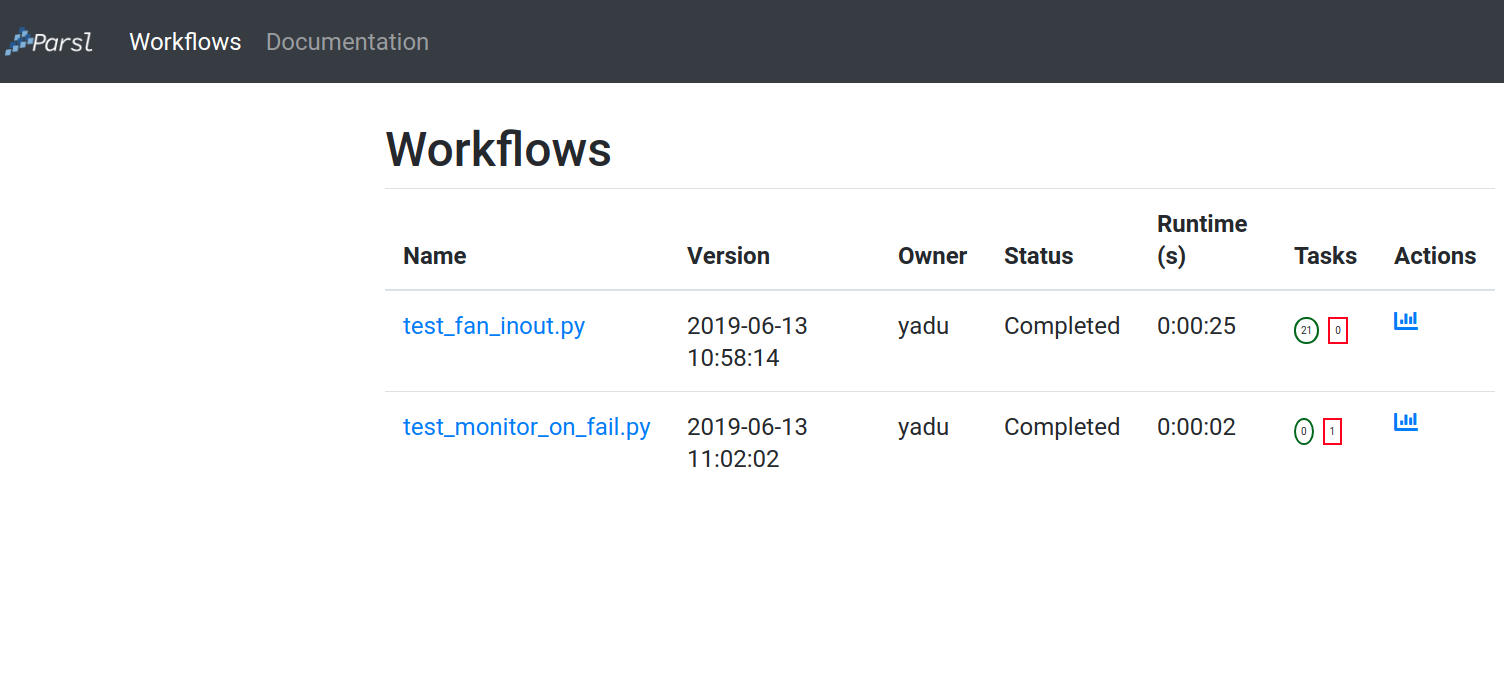
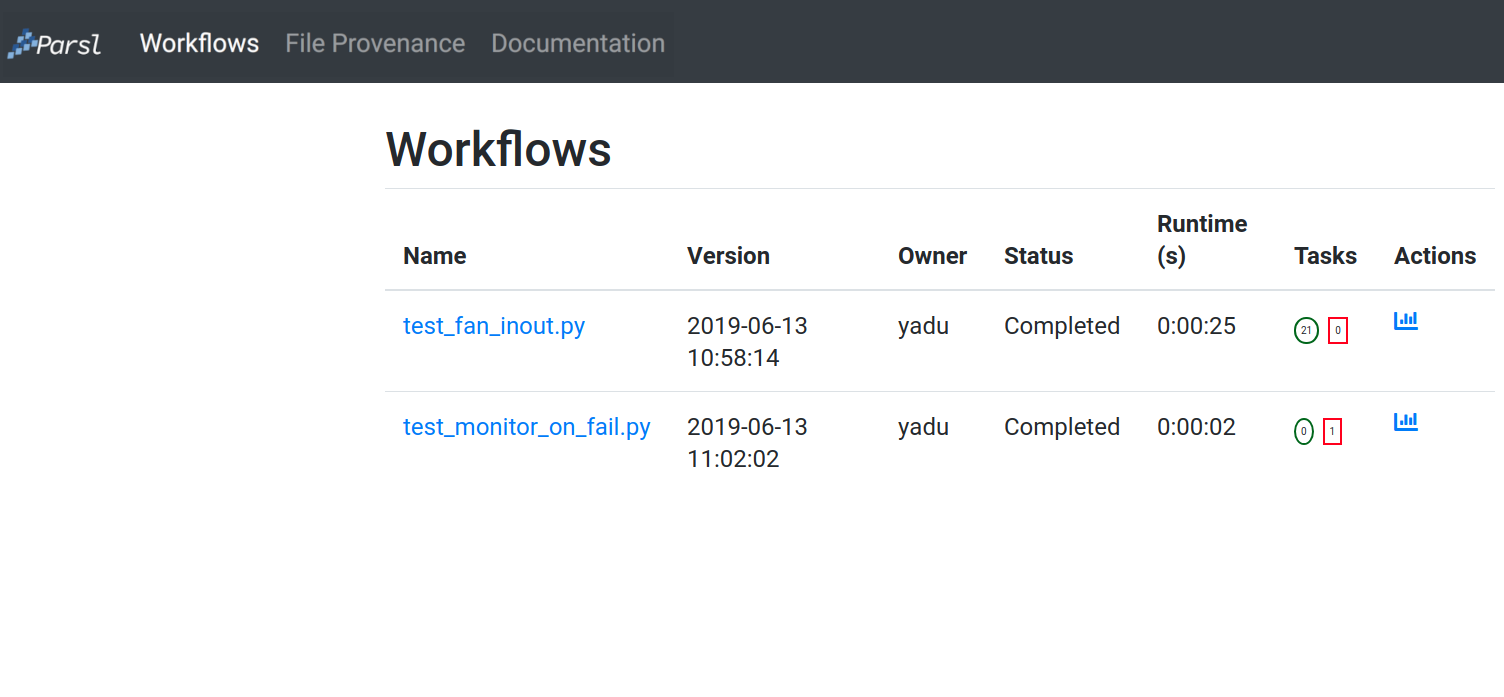
documentation on file provenance

Changed region(s): [[0.0, 0.0301, 0.4375, 0.0904]]

diff --git a/docs/userguide/monitoring.rst b/docs/userguide/monitoring.rst
@@ -15,7 +15,7 @@ SQLite tools.
 Monitoring configuration
 ------------------------
 
-Parsl monitoring is only supported with the `parsl.executors.HighThroughputExecutor`. 
+Parsl monitoring is only supported with the `parsl.executors.HighThroughputExecutor`.
 
 The following example shows how to enable monitoring in the Parsl
 configuration. Here the `parsl.monitoring.MonitoringHub` is specified to use port
@@ -50,6 +50,21 @@ configuration. Here the `parsl.monitoring.MonitoringHub` is specified to use por
    )
 
 
+File Provenance
+---------------
+
+The monitoring system can also be used to track file provenance. File provenance is defined as the history of a file including:
+
+* When the files was created
+* File size in bytes
+* File md5sum
+* What task created the file
+* What task(s) used the file
+* What inputs were given to the task that created the file
+* What environment was used (e.g. the 'worker_init' entry from a :py:class:`~parsl.providers.ExecutionProvider`), not available with every provider.
+
+The purpose of the file provenance tracking is to provide a mechanism where the user can see exactly how a file was created and used in a workflow. This can be useful for debugging, understanding the workflow, for ensuring that the workflow is reproducible, and reviewing past work. The file provenance information is stored in the monitoring database and can be accessed using the ``parsl-visualize`` tool. To enable file provenance tracking, set the ``capture_file_provenance`` flag to ``True`` in the `parsl.monitoring.MonitoringHub` configuration.
+
 Visualization
 -------------
 
@@ -75,7 +90,7 @@ By default, the visualization web server listens on ``127.0.0.1:8080``. If the w
    $ ssh -L 50000:127.0.0.1:8080 username@cluster_address
 
 This command will bind your local machine's port 50000 to the remote cluster's port 8080.
-The dashboard can then be accessed via the local machine's browser at ``127.0.0.1:50000``. 
+The dashboard can then be accessed via the local machine's browser at ``127.0.0.1:50000``.
 
 .. warning:: Alternatively you can deploy the visualization server on a public interface. However, first check that this is allowed by the cluster's security policy. The following example shows how to deploy the web server on a public port (i.e., open to Internet via ``public_IP:55555``)::
 
@@ -99,12 +114,12 @@ Workflow Summary
 
 The workflow summary page captures the run level details of a workflow, including start and end times
 as well as task summary statistics. The workflow summary section is followed by the *App Summary* that lists
-the various apps and invocation count for each. 
+the various apps and invocation count for each.
 
 .. image:: ../images/mon_workflow_summary.png
 
 
-The workflow summary also presents three different views of the workflow:
+The workflow summary also presents three or four different views of the workflow (the number depends on whether file provenance is enabled and files were used in the workflow):
 
 * Workflow DAG - with apps differentiated by colors: This visualization is useful to visually inspect the dependency
   structure of the workflow. Hovering over the nodes in the DAG shows a tooltip for the app represented by the node and it's task ID.
@@ -120,3 +135,35 @@ The workflow summary also presents three different views of the workflow:
 
 .. image:: ../images/mon_resource_summary.png
 
+* Workflow file provenance (only if enabled and files were used in the workflow): This visualization gives a tabular listing of each task that created (output) or used (input) a file. Each listed file has a link to a page detailing the file's information.
+
+.. image:: ../images/mon_workflow_files.png
+
+File Provenance
+^^^^^^^^^^^^^^^
+
+The file provenance page provides an interface for searching for files and viewing their provenance. The % wildcard can be used in the search bar to match any number of characters. Any results are listed in a table below the search bar. Clicking on a file in the table will take you to the file's detail page.
+
+.. image:: ../images/mon_file_provenance.png
+
+File Details
+^^^^^^^^^^^^
+
+The file details page provides information about a specific file, including the file's name, size, md5sum, and the tasks that created and used the file. Clicking on any of the tasks will take you to their respective details page. If the file was created by a task there will be an entry for the Environment used by that task. Clicking that link will take you to the Environment Details page.
+
+.. image:: ../images/mon_file_detail.png
+
+
+Task Details
+^^^^^^^^^^^^
+
+The task details page provides information about a specifiic instantiation of a task. This information includes task dependencies, executor (environment), input and output files, and task arguments.
+
+.. image:: ../images/mon_task_detail.png
+
+Environment Details
+^^^^^^^^^^^^^^^^^^^
+
+The environment details page provides information on the compute environment a task was run including the provider and launcher used and the worker_init that was used.
+
+.. image:: ../images/mon_env_detail.png
